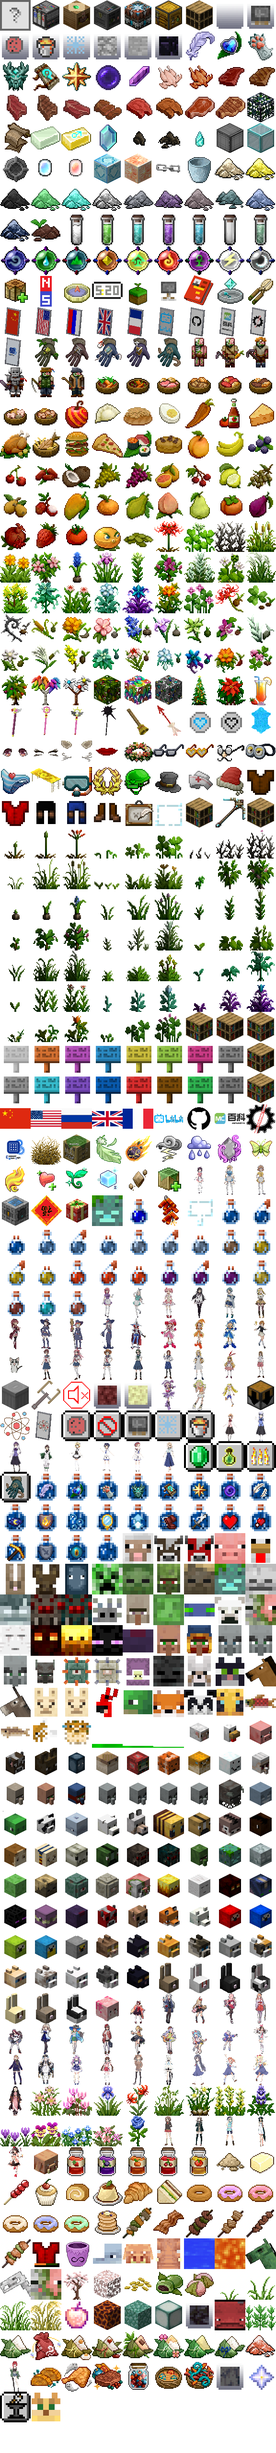
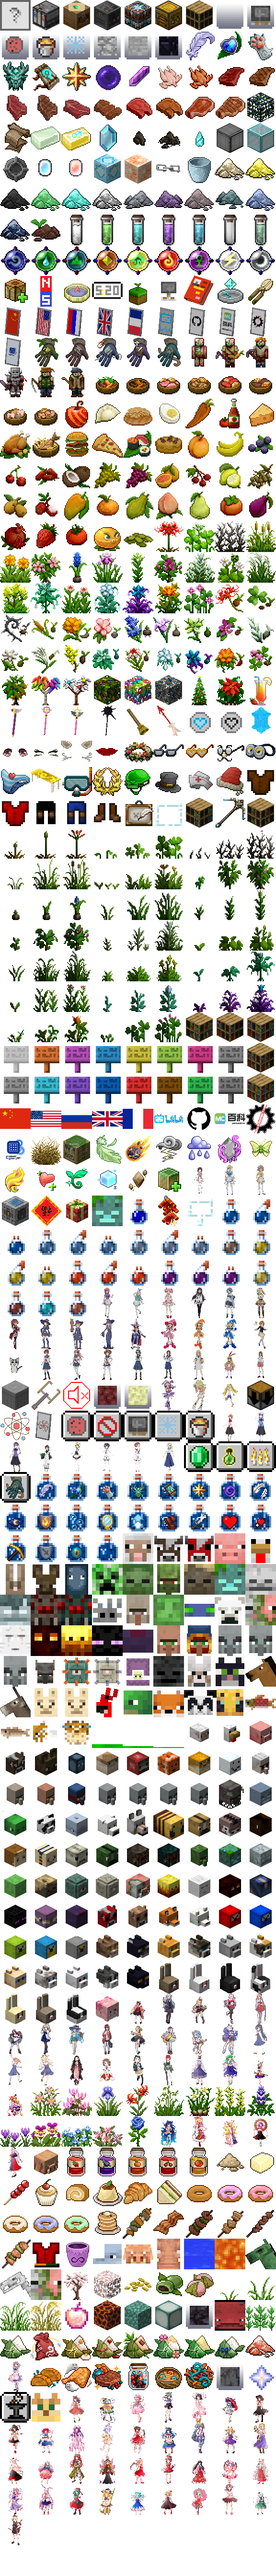
更新1.11.2-1126,1.12-1126

diff --git a/index.html b/index.html
@@ -383,7 +383,7 @@
 	<th>下载地址</th></tr></thead>
 <tbody>
 	<tr>
-		<td rowspan="2">Java版 20w46a</td>
+		<td rowspan="2">Java版 20w46a-20w48a</td>
 		<td>v1.12-1124</td>
 		<td><a href="https://gitee.com/zhangshenxing/CraftingPlusPlus/releases/v1.12-1124">Gitee</a> |
 			<a href="https://github.com/ruhuasiyu/CraftingPlusPlus/releases/tag/v1.12-1124">GitHub</a> |
@@ -5848,11 +5848,11 @@
 		<a class="ci golem_farmer" title="傀儡农民"></a>
 		<span class="shapeless" title="此配方是无形的，材料可以以任何排列方式放置在合成格内。"></span>
 	</span></td>
-	<td><code>cpp:industrious_hand</code><br />
-<code>cpp:break_hand</code><br />
-<code>cpp:smart_hand</code><br />
-<code>cpp:angry_hand</code><br />
-<code>cpp:toughen_hand</code></td>
+	<td><code>cpp:golem_farmer</code><br />
+<code>cpp:golem_miner</code><br />
+<code>cpp:golem_fisher</code><br />
+<code>cpp:golem_warrior</code><br />
+<code>cpp:golem_herder</code></td>
 </tr>
 </tbody></table>
 
@@ -6185,7 +6185,7 @@
 </tr>
 
 <tr><th><strong id="拔丝苹果">拔丝苹果</strong><br />
-		<a class="ui icons18 hunger" title="6"></a><a class="ui icons18 hunger" title="6"></a><a class="ui icons18 hunger" title="6"></a><br />
+		<a class="ui icons18 hunger" title="5"></a><a class="ui icons18 hunger" title="5"></a><a class="ui icons18 hunger_half" title="5"></a><br />
 		<a class="ui icons18 speed"></a><span class="lore">速度 30秒</span></th>
 	<td>糖+苹果</td>
 	<td><span class="ui cm" title="合成器">
@@ -6518,7 +6518,7 @@
 		<a class="empty"></a>
 		<a class="ci vegetable_kebab" title="蔬菜串"></a>
 	</span></td>
-	<td><code>cpp:vegetable_kebab</code> 烤胡萝卜和烤马铃薯位置可交换。</td>
+	<td><code>cpp:vegetable_kebab</code><br/>烤胡萝卜和烤马铃薯位置可交换。</td>
 </tr>
 
 <tr><th><strong id="烤牛肉串">烤牛肉串</strong><br />
@@ -9036,20 +9036,58 @@
 <tr><th>小鸟游雏田</th><td><a class="ui ci character49"></a></td><td>cpp:character/49</td></tr>
 <tr><th>五十岚阳菜</th><td><a class="ui ci character50"></a></td><td>cpp:character/50</td></tr>
 <tr><th>凉宫杏树</th><td><a class="ui ci character51"></a></td><td>cpp:character/51</td></tr>
-<tr><th>绊爱</th><td><a class="ui ci character52"></a></td><td>cpp:character/52</td></tr>
-<tr><th>本间向日葵</th><td><a class="ui ci character53"></a></td><td>cpp:character/53</td></tr>
-<tr><th>神楽めあ</th><td><a class="ui ci character54"></a></td><td>cpp:character/54</td></tr>
-<tr><th>湊あくあ</th><td><a class="ui ci character55"></a></td><td>cpp:character/55</td></tr>
-<tr><th>新科娘</th><td><a class="ui ci character56"></a></td><td>cpp:character/56</td></tr>
-<tr><th>森永みう</th><td><a class="ui ci character57"></a></td><td>cpp:character/57</td></tr>
-<tr><th>白上吹雪</th><td><a class="ui ci character58"></a></td><td>cpp:character/58</td></tr>
-<tr><th>白咲花</th><td><a class="ui ci character59"></a></td><td>cpp:character/59</td></tr>
-<tr><th>星野日向</th><td><a class="ui ci character60"></a></td><td>cpp:character/60</td></tr>
-<tr><th>姬坂乃爱</th><td><a class="ui ci character61"></a></td><td>cpp:character/61</td></tr>
-<tr><th>祢豆子</th><td><a class="ui ci character62"></a></td><td>cpp:character/62</td></tr>
-<tr><th>木下优子</th><td><a class="ui ci character63"></a></td><td>cpp:character/63</td></tr>
-<tr><th>七海千秋</th><td><a class="ui ci character64"></a></td><td>cpp:character/64</td></tr>
-<tr><th>绯赤艾莉欧<span class="version">1.12起</span></th><td><a class="ui ci character65"></a></td><td>cpp:character/65</td></tr>
+<tr><th>白咲花</th><td><a class="ui ci character52"></a></td><td>cpp:character/52</td></tr>
+<tr><th>星野日向</th><td><a class="ui ci character53"></a></td><td>cpp:character/53</td></tr>
+<tr><th>姬坂乃爱</th><td><a class="ui ci character54"></a></td><td>cpp:character/54</td></tr>
+<tr><th>祢豆子</th><td><a class="ui ci character55"></a></td><td>cpp:character/55</td></tr>
+<tr><th>木下优子</th><td><a class="ui ci character56"></a></td><td>cpp:character/56</td></tr>
+<tr><th>七海千秋</th><td><a class="ui ci character57"></a></td><td>cpp:character/57</td></tr>
+<tr><th>绯赤艾莉欧</th><td><a class="ui ci character58"></a></td><td>cpp:character/58</td></tr>
+<tr><th>上白泽慧音</th><td><a class="ui ci character59"></a></td><td>cpp:character/59</td></tr>
+<tr><th>东风谷早苗</th><td><a class="ui ci character60"></a></td><td>cpp:character/60</td></tr>
+<tr><th>丰聪耳神子</th><td><a class="ui ci character61"></a></td><td>cpp:character/61</td></tr>
+<tr><th>伊吹萃香</th><td><a class="ui ci character62"></a></td><td>cpp:character/62</td></tr>
+<tr><th>依神紫苑</th><td><a class="ui ci character63"></a></td><td>cpp:character/63</td></tr>
+<tr><th>八云紫</th><td><a class="ui ci character64"></a></td><td>cpp:character/64</td></tr>
+<tr><th>八云蓝</th><td><a class="ui ci character65"></a></td><td>cpp:character/65</td></tr>
+<tr><th>八坂神奈子</th><td><a class="ui ci character66"></a></td><td>cpp:character/66</td></tr>
+<tr><th>八意永琳</th><td><a class="ui ci character67"></a></td><td>cpp:character/67</td></tr>
+<tr><th>十六夜咲夜</th><td><a class="ui ci character68"></a></td><td>cpp:character/68</td></tr>
+<tr><th>博丽灵梦</th><td><a class="ui ci character69"></a></td><td>cpp:character/69</td></tr>
+<tr><th>古明地恋</th><td><a class="ui ci character70"></a></td><td>cpp:character/70</td></tr>
+<tr><th>古明地觉</th><td><a class="ui ci character71"></a></td><td>cpp:character/71</td></tr>
+<tr><th>四季映姬·亚玛萨那度</th><td><a class="ui ci character72"></a></td><td>cpp:character/72</td></tr>
+<tr><th>因幡帝</th><td><a class="ui ci character73"></a></td><td>cpp:character/73</td></tr>
+<tr><th>多多良小伞</th><td><a class="ui ci character74"></a></td><td>cpp:character/74</td></tr>
+<tr><th>宇佐见莲子</th><td><a class="ui ci character75"></a></td><td>cpp:character/75</td></tr>
+<tr><th>射命丸文</th><td><a class="ui ci character76"></a></td><td>cpp:character/76</td></tr>
+<tr><th>小野冢小町</th><td><a class="ui ci character77"></a></td><td>cpp:character/77</td></tr>
+<tr><th>帕秋莉·诺蕾姬</th><td><a class="ui ci character78"></a></td><td>cpp:character/78</td></tr>
+<tr><th>梅露兰·普莉兹姆利巴</th><td><a class="ui ci character79"></a></td><td>cpp:character/79</td></tr>
+<tr><th>橙</th><td><a class="ui ci character80"></a></td><td>cpp:character/80</td></tr>
+<tr><th>比那名居天子</th><td><a class="ui ci character81"></a></td><td>cpp:character/81</td></tr>
+<tr><th>河城荷取</th><td><a class="ui ci character82"></a></td><td>cpp:character/82</td></tr>
+<tr><th>泄矢诹访子</th><td><a class="ui ci character83"></a></td><td>cpp:character/83</td></tr>
+<tr><th>爱丽丝·玛格特洛依德</th><td><a class="ui ci character84"></a></td><td>cpp:character/84</td></tr>
+<tr><th>犬走椛</th><td><a class="ui ci character85"></a></td><td>cpp:character/85</td></tr>
+<tr><th>露娜萨·普莉兹姆利巴</th><td><a class="ui ci character86"></a></td><td>cpp:character/86</td></tr>
+<tr><th>秦心</th><td><a class="ui ci character87"></a></td><td>cpp:character/87</td></tr>
+<tr><th>红美铃</th><td><a class="ui ci character88"></a></td><td>cpp:character/88</td></tr>
+<tr><th>纯狐</th><td><a class="ui ci character89"></a></td><td>cpp:character/89</td></tr>
+<tr><th>芙兰朵露·斯卡雷特</th><td><a class="ui ci character90"></a></td><td>cpp:character/90</td></tr>
+<tr><th>莉莉卡·普莉兹姆利巴</th><td><a class="ui ci character91"></a></td><td>cpp:character/91</td></tr>
+<tr><th>蓬莱山辉夜</th><td><a class="ui ci character92"></a></td><td>cpp:character/92</td></tr>
+<tr><th>蕾米莉亚·斯卡雷特</th><td><a class="ui ci character93"></a></td><td>cpp:character/93</td></tr>
+<tr><th>藤原妹红</th><td><a class="ui ci character94"></a></td><td>cpp:character/94</td></tr>
+<tr><th>西行寺幽幽子</th><td><a class="ui ci character95"></a></td><td>cpp:character/95</td></tr>
+<tr><th>铃仙·优昙华院·因幡</th><td><a class="ui ci character96"></a></td><td>cpp:character/96</td></tr>
+<tr><th>键山雏</th><td><a class="ui ci character97"></a></td><td>cpp:character/97</td></tr>
+<tr><th>雾雨魔理沙</th><td><a class="ui ci character98"></a></td><td>cpp:character/98</td></tr>
+<tr><th>琪露诺</th><td><a class="ui ci character99"></a></td><td>cpp:character/99</td></tr>
+<tr><th>露米娅</th><td><a class="ui ci character100"></a></td><td>cpp:character/100</td></tr>
+<tr><th>风见幽香</th><td><a class="ui ci character101"></a></td><td>cpp:character/101</td></tr>
+<tr><th>鬼人正邪</th><td><a class="ui ci character102"></a></td><td>cpp:character/102</td></tr>
+<tr><th>魂魄妖梦</th><td><a class="ui ci character103"></a></td><td>cpp:character/103</td></tr>
 </tbody></table>
 
 <h3>旗帜、标志和盾牌图案</h3>
@@ -9714,7 +9752,7 @@
 	<a href="https://space.bilibili.com/4469715"><img src="items/bilibili.png" alt="哔哩哔哩" /></a>
 </p>
 
-<p>最后更新 2020-11-23</p>
+<p>最后更新 2020-11-26</p>
 </footer>
 
 </article>

diff --git a/items/items_css.css b/items/items_css.css
@@ -199,7 +199,7 @@ table.onlyicons td{
 }
 .smallicons span.ci{
 	background-image: url("colorful_items.png");
-	background-size:144px 1280px;
+	background-size:144px 1344px;
 }
 .smallicons span.icons18{
 	background-image: url("icons18.png");
@@ -227,7 +227,7 @@ span.ui a, a.ui{
 }
 span.ui a.ci, a.ci{
 	background-image: url("colorful_items.png");
-	background-size: 288px 2560px;
+	background-size: 288px 2688px;
 }
 span.ui a.icons18, a.icons18{
 	background-image: url("icons18.png");
@@ -415,10 +415,6 @@ em{
 /*物品 */
 span.ui a.xp_orb, a.xp_orb{
 	background-image: url("xp_orb.gif");
-	background-size: 32px 32px;
-}
-span.ui a.fire, a.fire{
-	background-image: url("fire.gif");
 	background-size: 32px 32px;
 }
 
@@ -736,7 +732,6 @@ span.ui a.fire, a.fire{
 .redstone                           {background-position: -544px -1120px;}
 .slime_ball                         {background-position: -576px -1120px;}
 .stick                              {background-position: -608px -1120px;}
-.string                             {background-position: -640px -1120px;}
 .bat_spawn_egg                      {background-position: -672px -1120px;}
 .blaze_spawn_egg                    {background-position: -704px -1120px;}
 .cave_spider_spawn_egg              {background-position: -736px -1120px;}
@@ -1476,9 +1471,7 @@ span.ui a.fire, a.fire{
 .stone_sword                        {background-position: -736px -3616px;}
 .totem_of_undying                   {background-position: -768px -3616px;}
 .wooden_sword                       {background-position: -800px -3616px;}
-.empty                              {background-position: -64px -1728px;}
-
-.turtle_spawn_egg{background-image:url("https://d1u5p3l4wpay3k.cloudfront.net/minecraft_zh_gamepedia/9/92/Grid_Spawn_Turtle.png");}
+.empty                              {background-position: -32px -3520px;}
 
 
 .all_in_one_machine                 {background-position: -032px -000px;}
@@ -2071,7 +2064,6 @@ span.ui a.fire, a.fire{
 .cat_head_white                     {background-position: -064px -2048px;}
 .cat_head_jellie                    {background-position: -096px -2048px;}
 .cat_head_black                     {background-position: -128px -2048px;}
-
 .rabbit_head_brown                  {background-position: -160px -2048px;}
 .rabbit_head_white                  {background-position: -192px -2048px;}
 .rabbit_head_black                  {background-position: -224px -2048px;}
@@ -2080,7 +2072,6 @@ span.ui a.fire, a.fire{
 .rabbit_head_salt                   {background-position: -032px -2080px;}
 .rabbit_head_toast                  {background-position: -064px -2080px;}
 .ruhuasiyu_head                     {background-position: -096px -2080px;}
-
 .character39                        {background-position: -128px -2080px;}
 .character40                        {background-position: -160px -2080px;}
 .character41                        {background-position: -192px -2080px;}
@@ -2105,7 +2096,6 @@ span.ui a.fire, a.fire{
 .character60                        {background-position: -224px -2144px;}
 .character61                        {background-position: -256px -2144px;}
 .character62                        {background-position: -000px -2176px;}
-
 .calliopsis                         {background-position: -032px -2176px;}
 .cyclamen                           {background-position: -064px -2176px;}
 .iris                               {background-position: -096px -2176px;}
@@ -2119,14 +2109,12 @@ span.ui a.fire, a.fire{
 .arabia_speedwell                   {background-position: -064px -2208px;}
 .silene_pendula                     {background-position: -096px -2208px;}
 .blue_rose                          {background-position: -128px -2208px;}
-
 .character63                        {background-position: -160px -2208px;}
 .character64                        {background-position: -192px -2208px;}
 .character65                        {background-position: -224px -2208px;}
 .character66                        {background-position: -256px -2208px;}
 .character67                        {background-position: -000px -2240px;}
 .piglin_head                        {background-position: -032px -2240px;}
-
 .strawberry_jam                     {background-position: -064px -2240px;}
 .blueberry_jam                      {background-position: -096px -2240px;}
 .orange_jam                         {background-position: -128px -2240px;}
@@ -2188,7 +2176,7 @@ span.ui a.fire, a.fire{
 .zongzi_soda_water                  {background-position: -192px -2432px;}
 .zongzi_honey_bottle                {background-position: -224px -2432px;}
 .copper_dust                        {background-position: -256px -2432px;}
-.character65                        {background-position: -000px -2464px;}
+.character68                        {background-position: -000px -2464px;}
 .baked_shroomlight                  {background-position: -032px -2464px;}
 .soul_fried_chicken                 {background-position: -064px -2464px;}
 .luxurious_netherite_barbecue       {background-position: -096px -2464px;}
@@ -2199,6 +2187,41 @@ span.ui a.fire, a.fire{
 .nether_star                        {background-position: -256px -2464px;}
 .mend_mode                          {background-position: -000px -2496px;}
 .mob_ocelot                         {background-position: -032px -2496px;}
+.character69                        {background-position: -064px -2496px;}
+.character70                        {background-position: -096px -2496px;}
+.character71                        {background-position: -128px -2496px;}
+.character72                        {background-position: -160px -2496px;}
+.character73                        {background-position: -192px -2496px;}
+.character74                        {background-position: -224px -2496px;}
+.character75                        {background-position: -256px -2496px;}
+.character76                        {background-position: -000px -2528px;}
+.character77                        {background-position: -032px -2528px;}
+.character78                        {background-position: -064px -2528px;}
+.character79                        {background-position: -096px -2528px;}
+.character80                        {background-position: -128px -2528px;}
+.character81                        {background-position: -160px -2528px;}
+.character82                        {background-position: -192px -2528px;}
+.character83                        {background-position: -224px -2528px;}
+.character84                        {background-position: -256px -2528px;}
+.character85                        {background-position: -000px -2560px;}
+.character87                        {background-position: -032px -2560px;}
+.character88                        {background-position: -064px -2560px;}
+.character89                        {background-position: -096px -2560px;}
+.character90                        {background-position: -128px -2560px;}
+.character91                        {background-position: -160px -2560px;}
+.character92                        {background-position: -192px -2560px;}
+.character93                        {background-position: -224px -2560px;}
+.character94                        {background-position: -256px -2560px;}
+.character95                        {background-position: -000px -2592px;}
+.character96                        {background-position: -032px -2592px;}
+.character97                        {background-position: -064px -2592px;}
+.character98                        {background-position: -096px -2592px;}
+.character99                        {background-position: -128px -2592px;}
+.character100                       {background-position: -160px -2592px;}
+.character101                       {background-position: -192px -2592px;}
+.character102                       {background-position: -224px -2592px;}
+.character103                       {background-position: -256px -2592px;}
+.character86                        {background-position: -000px -2624px;}
 
 .speed                   {background-position: -000px -00px;}
 .slowness                {background-position: -018px -00px;}
